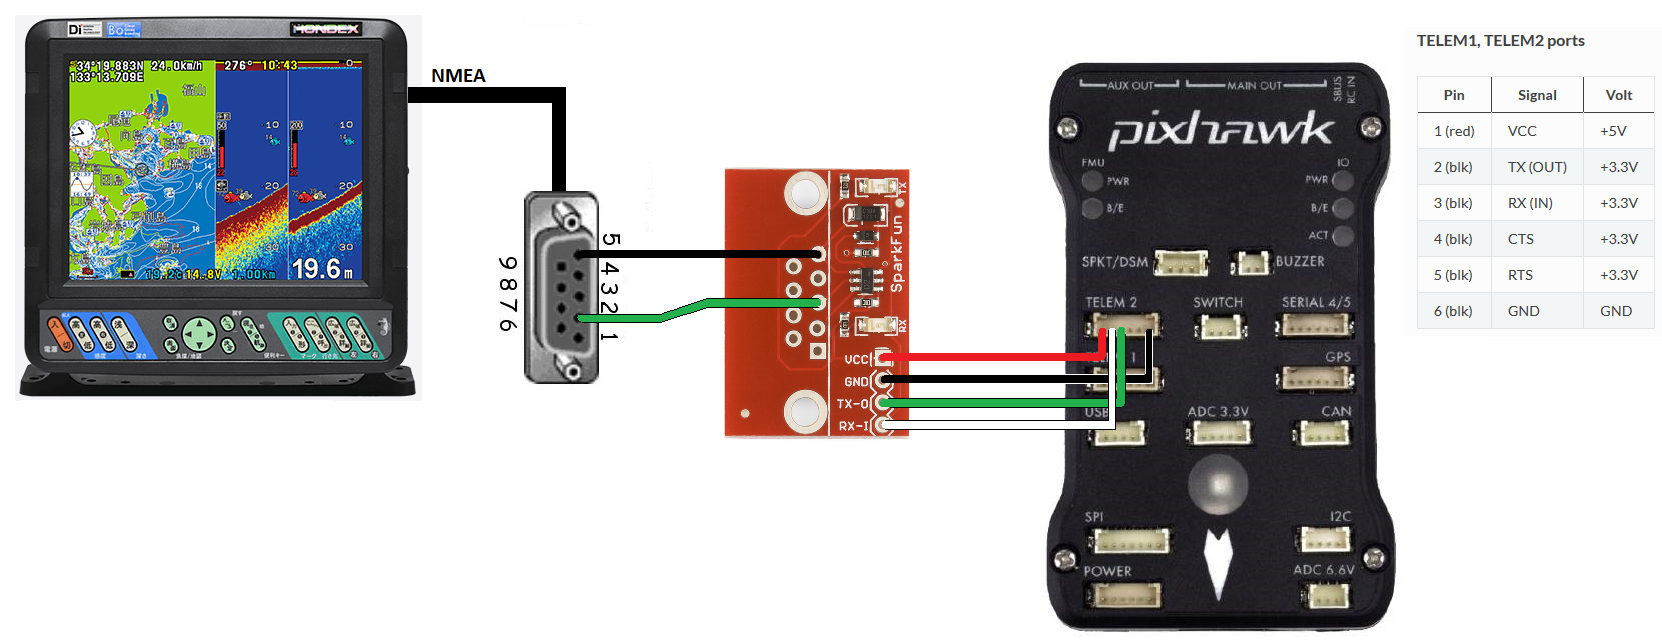
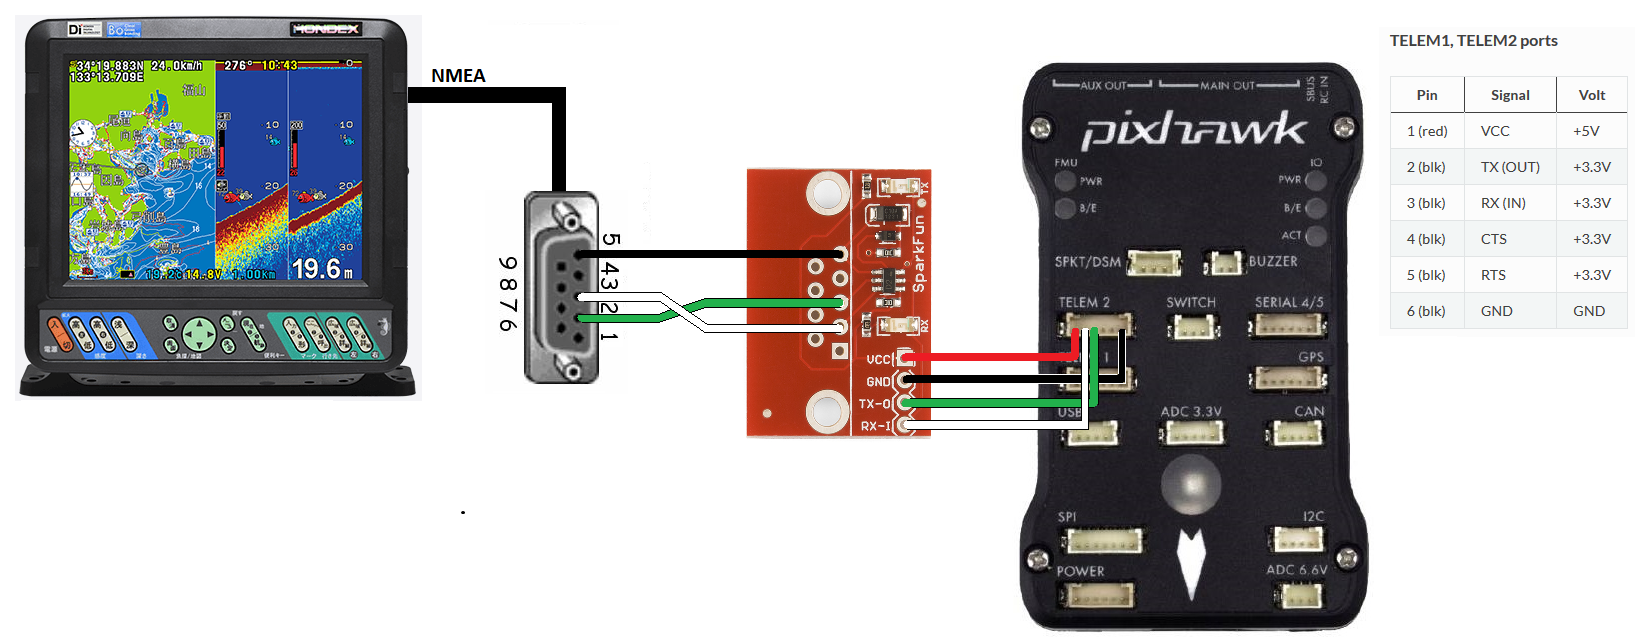
Common: hondex wiring fixup

diff --git a/common/source/docs/common-hondex-sonar.rst b/common/source/docs/common-hondex-sonar.rst
@@ -22,7 +22,7 @@ Connecting and Configuring
 
 The sonar provides distance measurements using the NMEA protocol over serial at 9600 baud.  There should be a port on the back of the sonar labelled "NMEA" with a DB9 connector.
 
-The sonar's DB9 connector should be wired to the RS232-to-Serial converter board as shown below.  Note that the DB9's pin2 is connected to pin3 of the converter board.  The board's serial output can be connected to any available serial port on the autopilot.  In the diagram below the first sensor is connected to SERIAL2.
+The sonar's DB9 connector should be wired to the RS232-to-Serial converter board as shown below.  Note that the sonar's DB9 port's pin2 and pin3 are connected to the converter board's pin3 and pin2 (i.e. crossed).  The converter board's serial output can be connected to any available serial port on the autopilot.  In the diagram below the SERIAL2 is used.
 
 .. image:: ../../../images/hondex-autopilot.png
     :target: ../_images/hondex-autopilot.png
